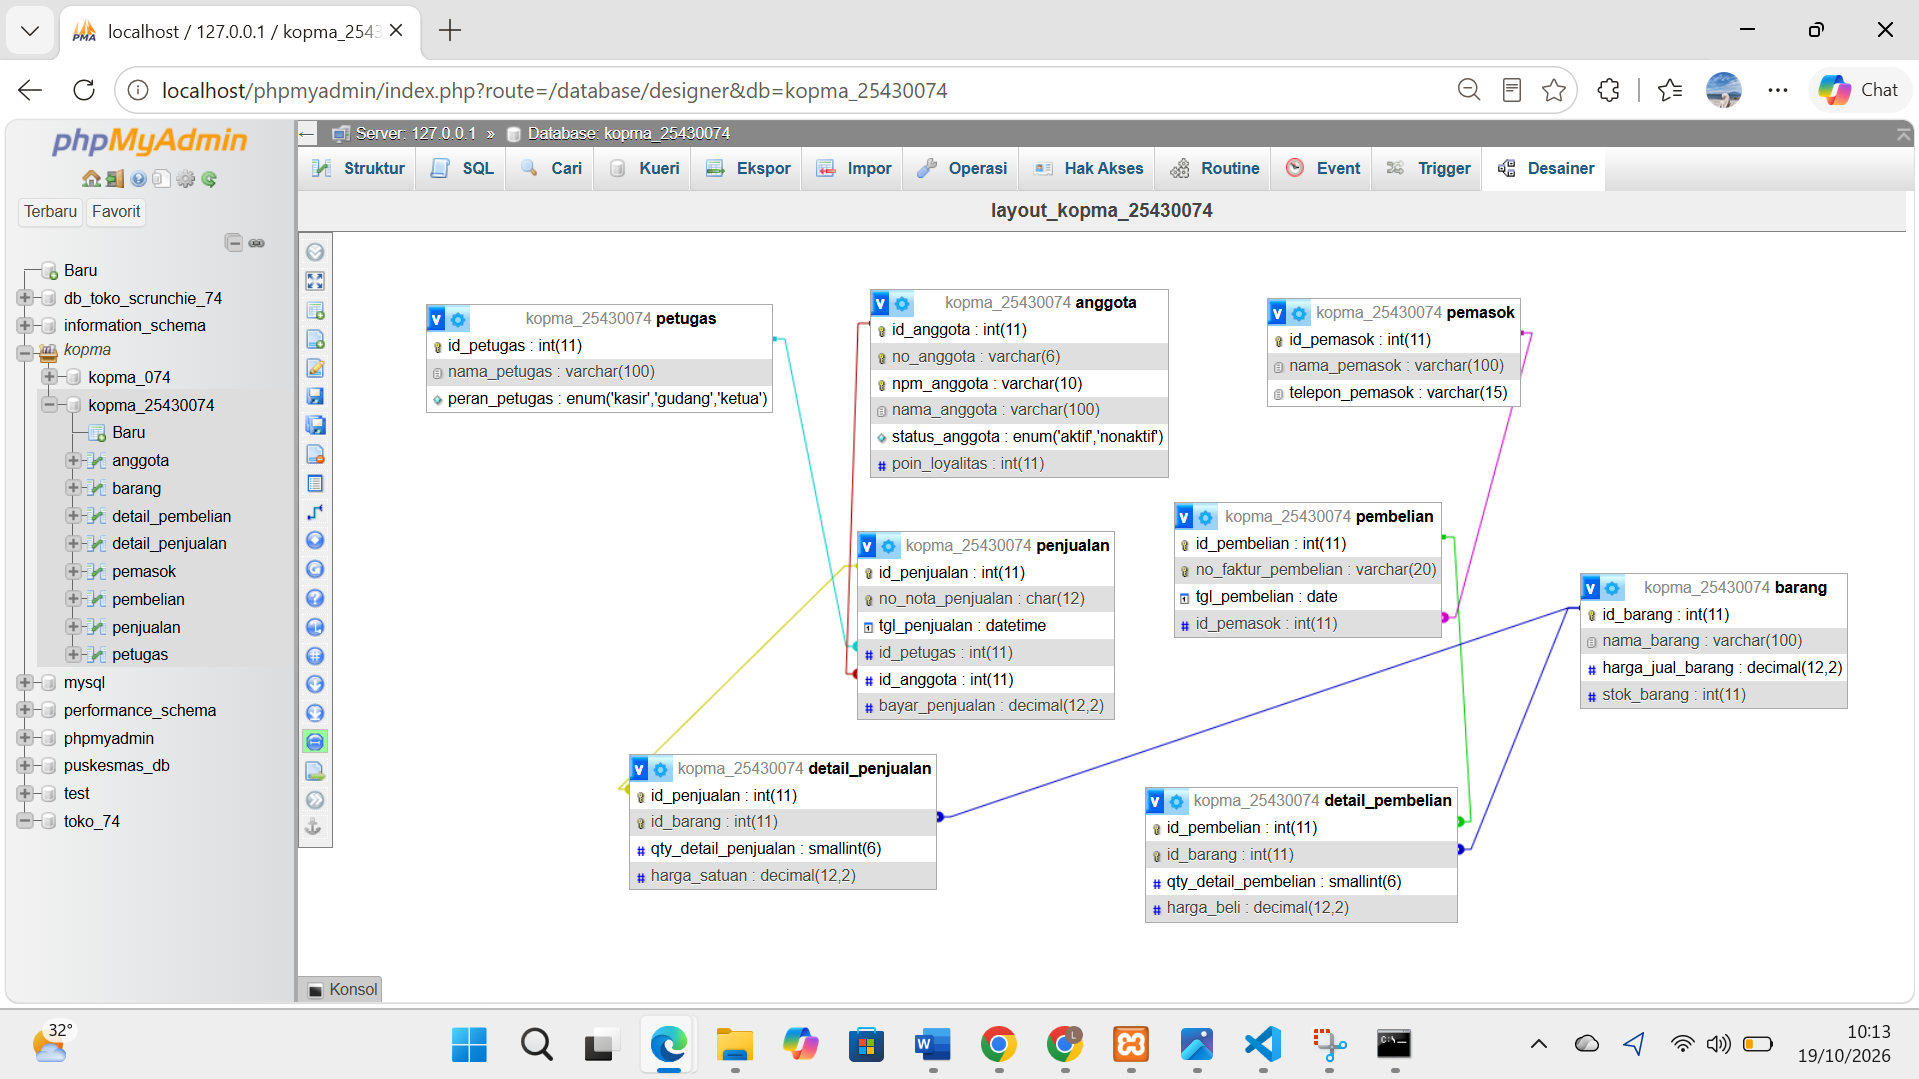
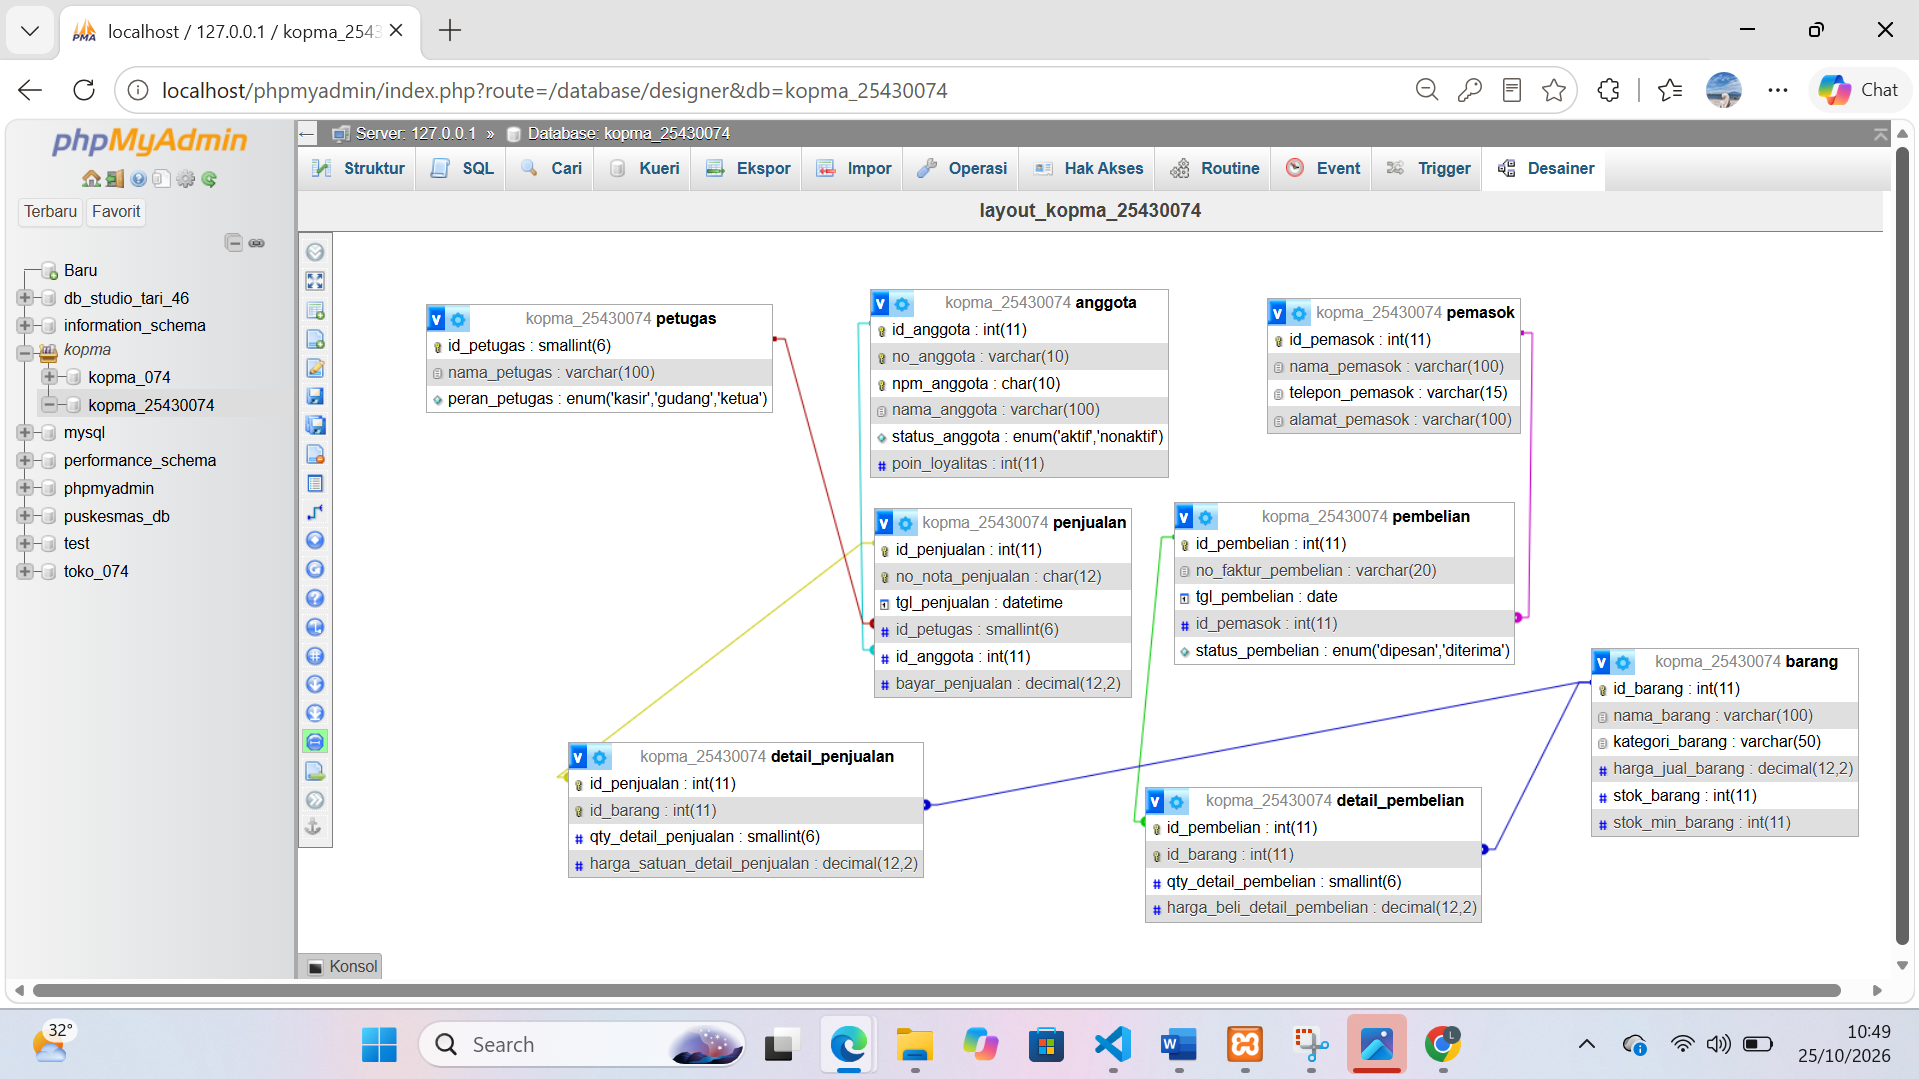
docs(p05): menambahkan laporan praktikum modul 5 dan dokumentasi pendukung

diff --git a/laporan/p05_laporan_25430074.md b/laporan/p05_laporan_25430074.md
@@ -84,7 +84,7 @@ Hasilnya: MariaDB menolak dengan 'ERROR 162 (23000): Duplicate entry '...' for k
 ![ERD Fisik Kopma Sejahtera](img/p05_erd_kopma_25430074.png)
 
 2. Skema relasi basis data proyek 'toko_074':
-![ERD Fisik Toko 74](img/p05_erd_toko_74.png)
+![ERD Fisik Toko 74](img/p05_erd_toko_074.png)
 
 ## 5. Jawaban Titik Analisis
 
@@ -134,8 +134,8 @@ Asisten AI membantu saya memeriksa sintaks DDL SQL, menyusun ekspresi *constrain
 Tautan Repositori: 'https://github.com/laelinhdytrhma18-cell/basisdata_25430074'
 
 Hash commit Modul 5:
-- Upload p05_ddl_25430074.sql, p05_ddl_kopma_25430074.sql, dan pembaruan README.md: 'ed0efa6'
-- Upload p05_laporan_25430074.md: '5686fa9'
+- Upload p05_ddl_25430074.sql, p05_ddl_kopma_25430074.sql, dan pembaruan README.md: '0f65f6e'
+- Upload p05_laporan_25430074.md: 
 
 ## Checklist Verifikasi Mandiri Modul 5
  
